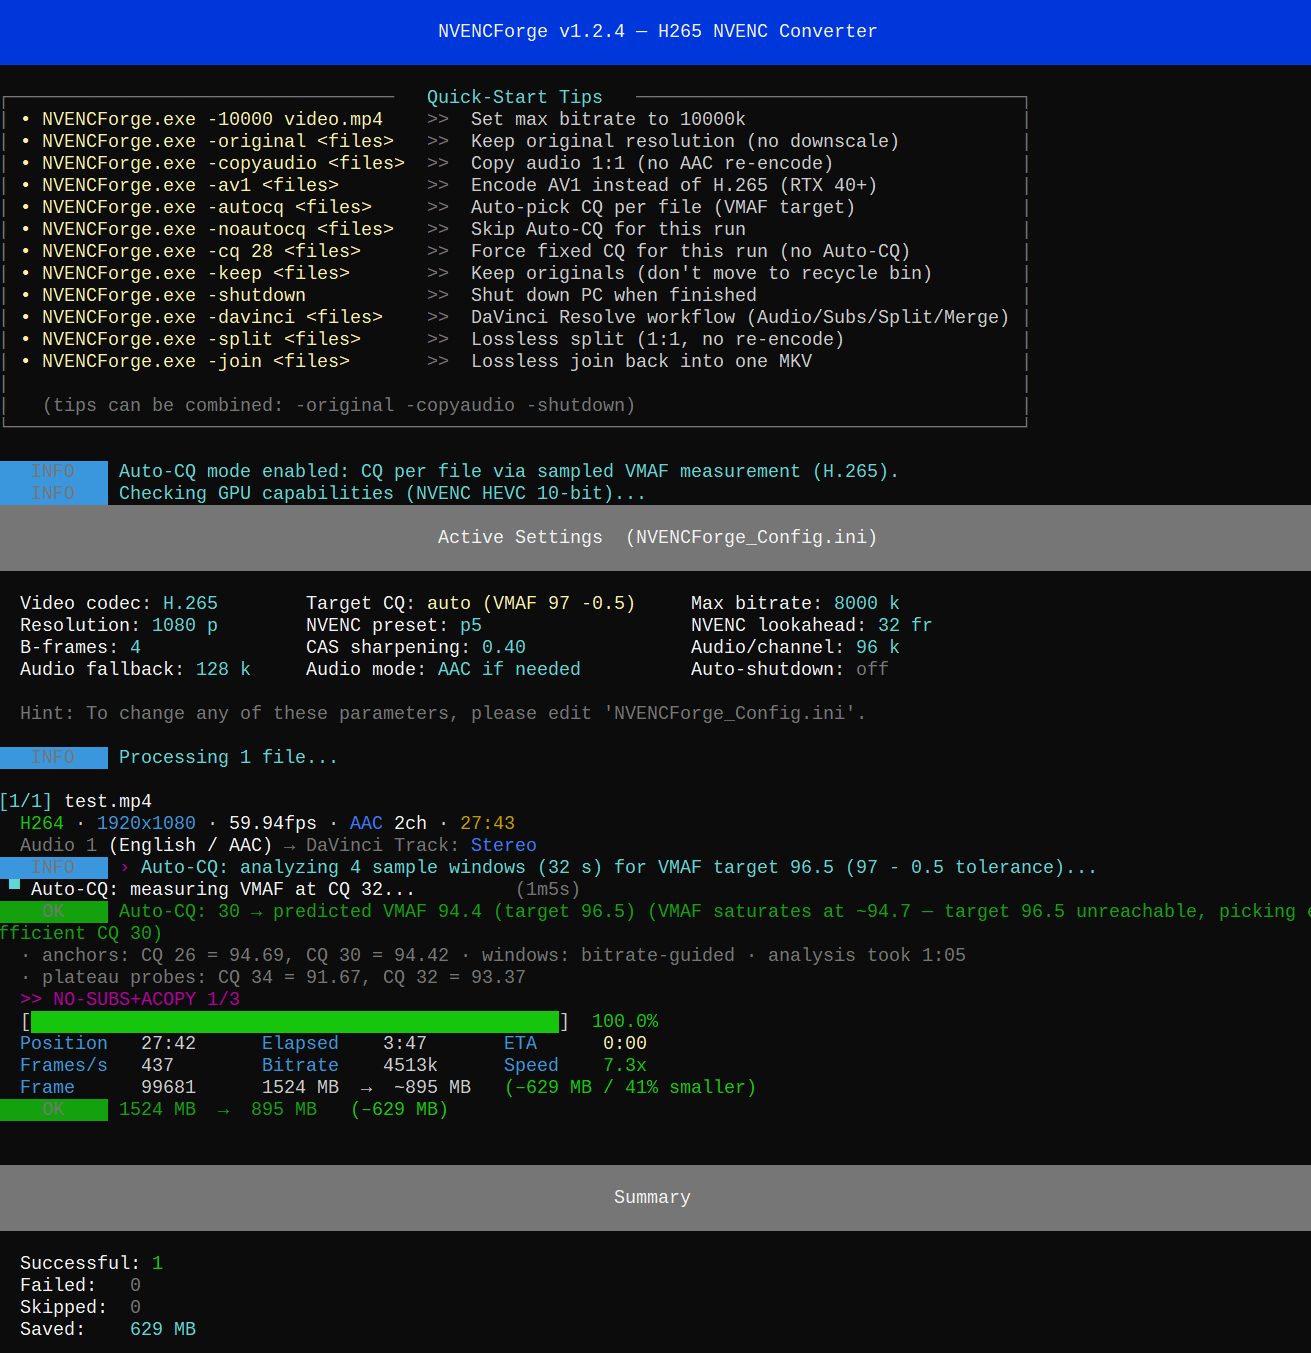
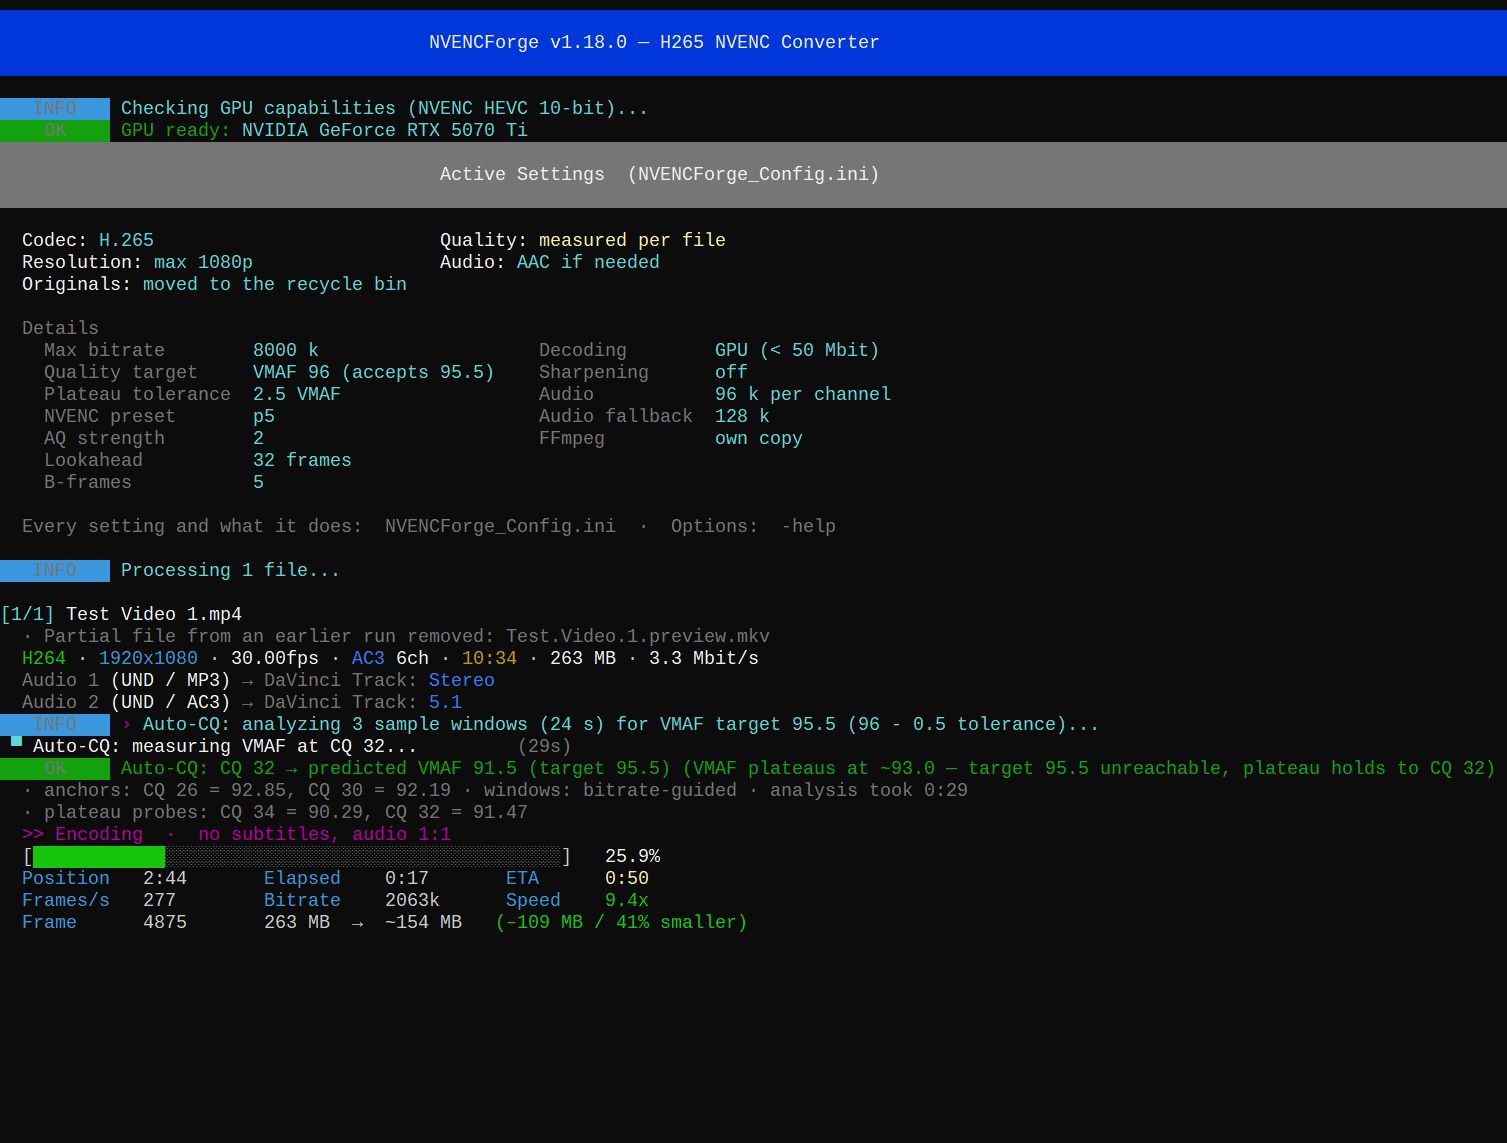
Update the screenshot in the README
Shows a current run: Auto-CQ picking its quality level and the size the file
is heading for. The description next to it was still telling the story of the
old picture.

diff --git a/README.md b/README.md
@@ -22,7 +22,7 @@ HDR-aware. Resilient. DaVinci-Resolve-ready. One EXE.
 
 *Free for personal & noncommercial use — [source-available](#-license), never for resale.*
 
-<img src=".github/screenshot.png" alt="NVENCForge converting a 4K HDR clip with -keep: 266 MB in, 59 MB out, HDR detected and passed through, original kept" width="840">
+<img src=".github/screenshot.png" alt="NVENCForge converting a 1080p clip: Auto-CQ measures three sample windows, settles on CQ 32 for a VMAF target of 95.5, and the 263 MB source is heading for about 154 MB - 41 percent smaller" width="840">
 
 </div>
 
